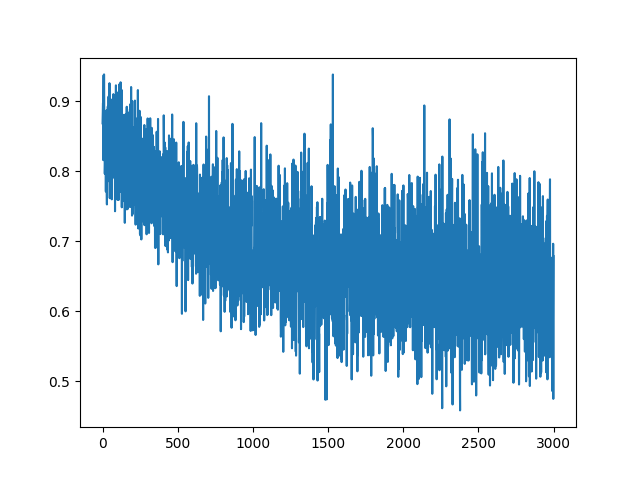
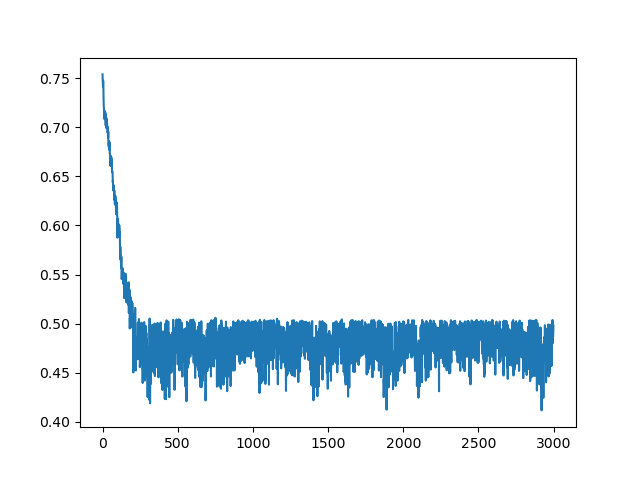
fixed GD to learn only recurrent. Found some hyperparameters that sort of work

diff --git a/multi-oja/multi_oja_powerseries.py b/multi-oja/multi_oja_powerseries.py
@@ -8,37 +8,6 @@ gpu = torch.device("cuda:0")
 import warnings
 warnings.filterwarnings('ignore', category=FutureWarning)
 
-eps = 1e-7
-# Neurons in input layer
-N_x = 16
-# Neurons in output layer - leq to input layer neurons
-N_y = 4
-M = torch.normal(torch.zeros((N_x, N_x)), torch.ones((N_x, N_x)))
-Q, _ = torch.linalg.qr(M)
-Q = Q.to(gpu)
-D = torch.diag(torch.exp(-torch.arange(N_x))).to(gpu)
-Sigma = Q @ D @ Q.t()
-r_dist = torch.distributions.multivariate_normal.MultivariateNormal(torch.zeros(N_x, device=gpu), Sigma)
-
-W_FF = torch.normal(torch.zeros(N_y, N_x), torch.ones(N_y, N_x))
-W_FF = W_FF.to(gpu)
-
-sigma_R = 0.05
-W_R = torch.normal(torch.zeros(N_y, N_y), torch.ones(N_y, N_y) * ((sigma_R ** 2) / N_y))
-W_R = W_R.to(gpu)
-
-n_train = 3000
-alpha_start = 1e-1
-alpha_end = 1e-4
-alpha_hebb_start = 1e-1
-alpha_hebb_end = 1e-3
-# Exponential decay lr starting at alpha_start and ending at alpha_end
-alphas = alpha_start*torch.exp(torch.arange(n_train) * (np.log(alpha_end / alpha_start) / (n_train-1)))
-#alphas = ((alpha_end - alpha_start) / n_train) * torch.arange(n_train) + alpha_start
-alphas_hebb = alpha_hebb_start*torch.exp(torch.arange(n_train) * (np.log(alpha_hebb_end / alpha_hebb_start) / (n_train-1)))
-
-degree = 2
-
 def load_features(start, end, fromwhere="gd"):
     pre = torch.load("r_pre_" + fromwhere + ".pt").detach().cpu()
     pre_start = pre[start, :]
@@ -115,7 +84,7 @@ def fit_powerseries(X, Y, alpha=1e-1):
 
     return reg
 
-def prepare_train_data(alphas, num_intervals=5, epoch_subset=None, fromwhere="gd"):    
+def prepare_train_data(alphas, alphas_hebb, num_intervals=5, epoch_subset=None, fromwhere="gd"):    
     loss_intervals = load_loss(num_intervals, epoch_subset, fromwhere=fromwhere)
     oja_train_samples = []
     oja_train_labels = []
@@ -135,6 +104,7 @@ def prepare_train_data(alphas, num_intervals=5, epoch_subset=None, fromwhere="gd
         oja_train_labels.append(labels_oja)
         
         features_ahebb = prepare_features(post, post, WR_0)
+        features_ahebb = alphas_hebb[start] * features_ahebb
         labels_ahebb = prepare_labels(WR_0, WR_f)
         ahebb_train_samples.append(features_ahebb)
         ahebb_train_labels.append(labels_ahebb)
@@ -170,7 +140,7 @@ def prepare_train_data(alphas, num_intervals=5, epoch_subset=None, fromwhere="gd
     return loss_intervals, oja_features_X_stats, oja_features_Y_stats, ahebb_features_X_stats, ahebb_features_Y_stats
 
 
-def accum_rule(reg_oja, reg_ahebb, oja_features_stats, ahebb_features_stats, learning_rate_scale=1.0, num_steps=100, alpha_mode="none", sample_new_cov=True):
+def accum_rule(reg_oja, reg_ahebb, oja_features_stats, ahebb_features_stats, learning_rate_scale=1.0, num_steps=100, alpha_mode="none", sample_new_cov=True, force_oja=True):
     if sample_new_cov:
         M = torch.normal(torch.zeros((N_x, N_x)), torch.ones((N_x, N_x)))
         Q, _ = torch.linalg.qr(M)
@@ -197,16 +167,16 @@ def accum_rule(reg_oja, reg_ahebb, oja_features_stats, ahebb_features_stats, lea
     W_R = torch.normal(torch.zeros(N_y, N_y), torch.ones(N_y, N_y) * ((sigma_R ** 2) / N_y)).to(gpu)
     Wr_gt = W_R.clone()
 
-    alphas_accum = alpha_start*torch.exp(torch.arange(num_steps) * (np.log(alpha_end / alpha_start) / (num_steps-1)))
-    alphas_accum_hebb = alpha_hebb_start*torch.exp(torch.arange(num_steps) * (np.log(alpha_hebb_end / alpha_hebb_start) / (num_steps-1)))
+    alphas_accum = alpha_start * torch.exp(torch.arange(num_steps) * (np.log(alpha_end / alpha_start) / (num_steps - 1)))
+    alphas_accum_hebb = alpha_hebb_start * torch.exp(torch.arange(num_steps) * (np.log(alpha_hebb_end / alpha_hebb_start) / (num_steps - 1)))
 
     losses = torch.empty((num_steps,))
     losses_gt = torch.empty((num_steps,))
     for i in range(num_steps):
         pre = r_dist_accum.sample().to(gpu)
         
-        W_tilde = torch.linalg.inv(torch.eye(N_y, device=gpu) - W_R) @ W_FF
-        W_tilde_gt = torch.linalg.inv(torch.eye(N_y, device=gpu) - Wr_gt) @ Wff_gt
+        W_tilde = torch.linalg.inv(torch.eye(N_y, device=gpu) -  W_R_scale * W_R) @ W_FF
+        W_tilde_gt = torch.linalg.inv(torch.eye(N_y, device=gpu) -  W_R_scale * Wr_gt) @ Wff_gt
 
         # Post computed with our powerseries' updates to respective weights
         post_hat = W_tilde @ pre
@@ -242,15 +212,18 @@ def accum_rule(reg_oja, reg_ahebb, oja_features_stats, ahebb_features_stats, lea
         overlaps_gt = torch.diag((W_tilde_gt[PCs2output_gt, :] @ pc_i.t()) * 1 / torch.linalg.vector_norm(W_tilde_gt[PCs2output_gt, :], dim=1))
         
         # Loss from using accumulation rule
-        loss = 1-torch.mean(torch.abs(overlaps))
+        loss = 1 - torch.mean(torch.abs(overlaps))
         # Loss from using actual Oja + anti-Hebbian rule
-        loss_gt = 1-torch.mean(torch.abs(overlaps_gt))
+        loss_gt = 1 - torch.mean(torch.abs(overlaps_gt))
 
         print(f"Iter {i}: {loss.item()}, overlaps: {overlaps}")
         losses[i] = loss.item()
         losses_gt[i] = loss_gt.item()
         
-        delta_W_FF = torch.from_numpy(reg_oja.predict(features_oja.detach().cpu().numpy())) * Y_oja_std + Y_oja_mu
+        if force_oja:
+            delta_W_FF = post_hat.unsqueeze(1) * (pre.unsqueeze(0) - post_hat.unsqueeze(1) * W_FF.detach())
+        else:
+            delta_W_FF = torch.from_numpy(reg_oja.predict(features_oja.detach().cpu().numpy())) * Y_oja_std + Y_oja_mu
         delta_W_FF = delta_W_FF.view(W_FF.shape).to(gpu)
         delta_W_R = torch.from_numpy(reg_ahebb.predict(features_ahebb.detach().cpu().numpy())) * Y_ahebb_std + Y_ahebb_mu
         delta_W_R = delta_W_R.view(W_R.shape).to(gpu)
@@ -264,8 +237,8 @@ def accum_rule(reg_oja, reg_ahebb, oja_features_stats, ahebb_features_stats, lea
         W_FF += learning_rate_scale * delta_W_FF
         Wff_gt += learning_rate_scale * delta_Wff_gt
         
-        W_R +=  1 / np.sqrt(N_y) * learning_rate_scale * delta_W_R
-        Wr_gt +=  1 / np.sqrt(N_y) * learning_rate_scale * delta_Wr_gt
+        W_R +=  learning_rate_scale * delta_W_R
+        Wr_gt +=  learning_rate_scale * delta_Wr_gt
 
 
     return losses, losses_gt
@@ -289,40 +262,71 @@ def compare_coefs(degree, numvars, coef):
     return fig
 
 
-loss_intervals, oja_features_X_stats, oja_features_Y_stats, ahebb_features_X_stats, ahebb_features_Y_stats = prepare_train_data(
-    alphas, num_intervals=n_train, epoch_subset=None, fromwhere="gd")
-oja_features, oja_X_mu, oja_X_std = oja_features_X_stats
-oja_labels, oja_Y_mu, oja_Y_std = oja_features_Y_stats
-ahebb_features, ahebb_X_mu, ahebb_X_std = ahebb_features_X_stats
-ahebb_labels, ahebb_Y_mu,ahebb_Y_std = ahebb_features_Y_stats
-#print(f"Loss intervals: {loss_intervals}")
-reg_oja = fit_powerseries(oja_features, oja_labels, alpha=1e-3) # 1e-1
-reg_ahebb = fit_powerseries(ahebb_features, ahebb_labels, alpha=1e-3) #5e-1
-plt.plot(ahebb_labels)
-plt.savefig("w_r.png")
-print(f"(Predicted) Oja Coefs: {reg_oja.coef_}")
-print(f"(Predicted) Anti-Hebbian Coefs: {reg_ahebb.coef_}")
-print(f"Oja R^2: {reg_oja.score(oja_features, oja_labels)}")
-print(f"Anti-Hebbian R^2: {reg_ahebb.score(ahebb_features, ahebb_labels)}")
-fig = compare_coefs(degree=degree, numvars=3, coef=reg_oja.coef_)
-fig.suptitle("Oja's Linear Predictor Coefficients")
-plt.savefig("oja_coefs.png")
-plt.close()
-fig = compare_coefs(degree=degree, numvars=3, coef=reg_ahebb.coef_)
-fig.suptitle("Anti-Hebbian Linear Predictor Coefficients")
-plt.savefig("anti_hebbian_coefs.png")
-plt.close()
+if __name__ == "__main__":
+    eps = 1e-7
+    # Neurons in input layer
+    N_x = 16
+    # Neurons in output layer - leq to input layer neurons
+    N_y = 4
+    M = torch.normal(torch.zeros((N_x, N_x)), torch.ones((N_x, N_x)))
+    Q, _ = torch.linalg.qr(M)
+    Q = Q.to(gpu)
+    D = torch.diag(torch.exp(-torch.arange(N_x))).to(gpu)
+    Sigma = Q @ D @ Q.t()
+    r_dist = torch.distributions.multivariate_normal.MultivariateNormal(torch.zeros(N_x, device=gpu), Sigma)
 
-exit(0)
+    W_FF = torch.normal(torch.zeros(N_y, N_x), torch.ones(N_y, N_x))
+    W_FF = W_FF.to(gpu)
 
-oja_features_stats = (oja_X_mu, oja_X_std, oja_Y_mu, oja_Y_std)
-ahebb_features_stats = (ahebb_X_mu, ahebb_X_std, ahebb_Y_mu, ahebb_Y_std)
-losses, losses_gt = accum_rule(reg_oja, reg_ahebb, oja_features_stats, ahebb_features_stats, 
-                                learning_rate_scale=1, num_steps=n_train * 1, alpha_mode="none", sample_new_cov=True)
-plt.plot(losses, color="tab:blue", label="Pred")
-plt.plot(losses_gt, color="tab:orange", label="GT")
-plt.ylim([0, 1])
-plt.title("Loss: Learning Rule Accumulation")
-plt.legend()
-plt.savefig("accum_rule.png")
-plt.show()
+    sigma_R = 0.01
+    W_R_scale = (sigma_R / np.sqrt(N_y))
+    W_R = torch.normal(torch.zeros(N_y, N_y), torch.ones(N_y, N_y))
+    W_R = W_R.to(gpu)
+
+    n_train = 10000
+    alpha_start = 1e-3
+    alpha_end = 1e-5
+    alpha_hebb_start = 1e-1
+    alpha_hebb_end = 1e-6
+    # Exponential decay lr starting at alpha_start and ending at alpha_end
+    alphas = alpha_start*torch.exp(torch.arange(n_train) * (np.log(alpha_end / alpha_start) / (n_train-1)))
+    #alphas = ((alpha_end - alpha_start) / n_train) * torch.arange(n_train) + alpha_start
+    alphas_hebb = alpha_hebb_start*torch.exp(torch.arange(n_train) * (np.log(alpha_hebb_end / alpha_hebb_start) / (n_train-1)))
+
+    degree = 2
+
+    loss_intervals, oja_features_X_stats, oja_features_Y_stats, ahebb_features_X_stats, ahebb_features_Y_stats = prepare_train_data(
+        alphas, alphas_hebb, num_intervals=n_train, epoch_subset=None, fromwhere="gd")
+    oja_features, oja_X_mu, oja_X_std = oja_features_X_stats
+    oja_labels, oja_Y_mu, oja_Y_std = oja_features_Y_stats
+    ahebb_features, ahebb_X_mu, ahebb_X_std = ahebb_features_X_stats
+    ahebb_labels, ahebb_Y_mu,ahebb_Y_std = ahebb_features_Y_stats
+    #print(f"Loss intervals: {loss_intervals}")
+    reg_oja = fit_powerseries(oja_features, oja_labels, alpha=1e-1) # 1e-1
+    reg_ahebb = fit_powerseries(ahebb_features, ahebb_labels, alpha=1e-3) #5e-1
+
+    print(f"(Predicted) Oja Coefs: {reg_oja.coef_}")
+    print(f"(Predicted) Anti-Hebbian Coefs: {reg_ahebb.coef_}")
+    print(f"Oja R^2: {reg_oja.score(oja_features, oja_labels)}")
+    print(f"Anti-Hebbian R^2: {reg_ahebb.score(ahebb_features, ahebb_labels)}")
+    fig = compare_coefs(degree=degree, numvars=3, coef=reg_oja.coef_)
+    fig.suptitle("Oja's Linear Predictor Coefficients")
+    plt.savefig("oja_coefs.png")
+    fig = compare_coefs(degree=degree, numvars=3, coef=reg_ahebb.coef_)
+    fig.suptitle("Anti-Hebbian Linear Predictor Coefficients")
+    plt.savefig("anti_hebbian_coefs.png")
+    plt.show()
+    plt.close("all")
+
+    oja_features_stats = (oja_X_mu, oja_X_std, oja_Y_mu, oja_Y_std)
+    ahebb_features_stats = (ahebb_X_mu, ahebb_X_std, ahebb_Y_mu, ahebb_Y_std)
+    losses, losses_gt = accum_rule(reg_oja, reg_ahebb, oja_features_stats, ahebb_features_stats, 
+                                    learning_rate_scale=1, num_steps=n_train * 1, alpha_mode="same", sample_new_cov=True, force_oja=False)
+    plt.close("all")
+    plt.plot(losses, color="tab:blue", label="Pred")
+    plt.plot(losses_gt, color="tab:orange", label="GT")
+    plt.ylim([0, 1])
+    plt.title("Loss: Learning Rule Accumulation")
+    plt.legend()
+    plt.savefig("accum_rule.png")
+    plt.show()

diff --git a/multi-oja/multi_oja_gd.py b/multi-oja/multi_oja_gd.py
@@ -11,10 +11,10 @@ N_y = 4
 M = torch.normal(torch.zeros((N_x, N_x)), torch.ones((N_x, N_x)))
 Q, _ = torch.linalg.qr(M)
 Q = Q.to(gpu)
-#D = torch.diag(torch.exp(-torch.arange(N_x))).to(gpu)
+D = torch.diag(torch.exp(-torch.arange(N_x))).to(gpu)
 # Trying linearly decreasing eigenvalues to make it easier to learn multiple PCs
 # By increasing these eigenvalues we also increase variance of input
-D = torch.diag(torch.linspace(1, 0.1, N_x) / torch.sum(torch.linspace(1, 0.1, N_x))).to(gpu)
+# D = torch.diag(torch.linspace(1, 0.1, N_x) / torch.sum(torch.linspace(1, 0.1, N_x))).to(gpu)
 Sigma = Q @ D @ Q.t()
 r_dist = torch.distributions.multivariate_normal.MultivariateNormal(torch.zeros(N_x, device=gpu), Sigma)
 
@@ -22,36 +22,40 @@ W_FF = torch.normal(torch.zeros(N_y, N_x), torch.ones(N_y, N_x))
 W_FF = W_FF.to(gpu)
 #W_FF.requires_grad_(True)
 sigma_R = 0.01
-W_R = torch.normal(torch.zeros(N_y, N_y), torch.ones(N_y, N_y) * ((sigma_R ** 2) / N_y))
+W_R_scale = (sigma_R / np.sqrt(N_y))
+W_R = torch.normal(torch.zeros(N_y, N_y), torch.ones(N_y, N_y))
 W_R = W_R.to(gpu)
 W_R.requires_grad_(True)
 
-lr = 1e-1
-n_train = 3000
-alpha_start = 1e-2
-alpha_end = 1e-3
+lr = 5e-2
+lambda_r = 1e-8
+n_train = 10000
+alpha_start = 1e-3
+alpha_end = 1e-5
 # Exponential decay lr starting at alpha_start and ending at alpha_end
 alphas = alpha_start*torch.exp(torch.arange(n_train) * (np.log(alpha_end / alpha_start) / (n_train-1)))
 #alphas = ((alpha_end - alpha_start) / n_train) * torch.arange(n_train) + alpha_start
 #optim_FF = torch.optim.Adam([W_FF], lr=lr)
-#optim_R = torch.optim.Adam([W_R], lr=lr)
+optim_R = torch.optim.Adam([W_R], lr=lr)
 # No momentum so just vanilla gradient descent
 #optim_FF = torch.optim.SGD([W_FF], lr=lr, momentum=0.)
-optim_R = torch.optim.SGD([W_R], lr=lr, momentum=0.)
+# optim_R = torch.optim.SGD([W_R], lr=lr, momentum=0.)
 
 losses = torch.empty((n_train,))
 W_ff = torch.empty(n_train, N_y, N_x)
 W_r = torch.empty(n_train, N_y, N_y)
 pre = torch.empty((n_train, N_x))
-post = torch.empty((n_train, N_y))
+post = torch.empty((n_train, N_y))  
 
 # Jointly train W_FF and W_R
 for i in range(n_train):
+    optim_R.zero_grad()
+
     X = r_dist.sample()
     # Convergent dynamics matrix for output layer
-    W_tilde = torch.linalg.inv((torch.eye(N_y, device=gpu) - W_R)) @ W_FF
+    W_tilde = torch.linalg.inv((torch.eye(N_y, device=gpu) - W_R_scale * W_R)) @ W_FF#.detach()
     # output neurons predicted with W_FF
-    Y_hat = W_tilde @ X
+    Y_hat = W_tilde.detach() @ X
     
     B = 512
     c = torch.cov(r_dist.sample((B,)).t())
@@ -60,9 +64,8 @@ for i in range(n_train):
     # TODO does it matter whether we flip? NO
     #pc_i = torch.flip(eigvecs[:, -N_y:].t(), dims=(0,))
     pc_i = eigvecs[:, -N_y:].t().flip(dims=(0,))
-    
-    # output neurons predicted with the first N_Y PCs (the last output neuron has first PC)
-    Y = pc_i @ X
+
+    # W_FF = delta_W_FF
     
     # norm_pci = pc_i / torch.linalg.vector_norm(pc_i, dim=1).unsqueeze(1)
     # norm_W = W_FF / torch.linalg.vector_norm(W_FF, dim=1).unsqueeze(1)
@@ -76,34 +79,36 @@ for i in range(n_train):
     # loss = torch.mean((Y-Y_hat) ** 2) + lambda_ff*l1reg_ff + lambda_r*l1reg_r
     # for each PC, find the best-aligned post neuron
     #PCs2output = torch.zeros((pc_i.shape[0]), dtype=torch.int, requires_grad=False)
-    PCs2output = torch.arange(pc_i.shape[0])
+    # PCs2output = torch.arange(pc_i.shape[0])
     # for ii in range(pc_i.shape[0]):
     #     with torch.no_grad():
     #         PCs2output[ii] = torch.argmax(W_tilde @ pc_i[ii, :] * 1 / (torch.linalg.vector_norm(W_tilde, dim=1)))
     # With this best-aligned neuron, how much it overlaps with its respective PC
     # If we have multiple neurons encoding the same PC, then there would be a PC which is not represented well by any neuron
     # And this would be reflected in the loss
-    overlaps = torch.diag((W_tilde[PCs2output, :] @ pc_i.t()) * 1 / torch.linalg.vector_norm(W_tilde[PCs2output, :], dim=1))
+    overlaps = torch.diag((W_tilde @ pc_i.t()) * 1 / torch.linalg.vector_norm(W_tilde, dim=1))
     
-    lambda_r = 10
-    l2reg_r = torch.sum(W_R ** 2) / (N_x*N_x)
+    l2reg_r = torch.sum(W_R ** 2) / (N_y*N_y)
     loss = 1 - torch.mean(torch.abs(overlaps)) + lambda_r*l2reg_r
     
-    print(f"Iter {i}: {loss.item()}, overlaps: {overlaps}, best-aligned: {PCs2output}")
+    print(f"Iter {i}: {loss.item()}, overlaps: {overlaps}")
     losses[i] = loss.item()
-    W_ff[i] = W_FF
-    W_r[i] = W_R
-    pre[i] = X
-    post[i] = Y_hat
+    W_ff[i] = W_FF.data
+    W_r[i] = W_R.data
+    pre[i] = X.data
+    post[i] = Y_hat.data
 
     #optim_FF.zero_grad()
-    optim_R.zero_grad()
-    
+
+    # update feed-forward
+    delta_W_FF = alphas[i] * Y_hat.unsqueeze(1) * (X.unsqueeze(0) - Y_hat.unsqueeze(1) * W_FF.detach())
+    W_FF = W_FF.detach() + delta_W_FF
+
     loss.backward()
 
-    with torch.no_grad():
-        delta_W_FF = alphas[i] * Y_hat.unsqueeze(1) * (X.unsqueeze(0) - Y_hat.unsqueeze(1) * W_FF)
-        W_FF += delta_W_FF
+    # with torch.no_grad():
+    #     delta_W_FF = alphas[i] * Y_hat.unsqueeze(1) * (X.unsqueeze(0) - Y_hat.unsqueeze(1) * W_FF)
+    #     W_FF += delta_W_FF
 
     #optim_FF.step()
     optim_R.step()

diff --git a/multi-oja/multi_oja_gt.py b/multi-oja/multi_oja_gt.py
@@ -17,13 +17,14 @@ r_dist = torch.distributions.multivariate_normal.MultivariateNormal(torch.zeros(
 
 W_FF = torch.normal(torch.zeros(N_y, N_x), torch.ones(N_y, N_x))
 W_FF = W_FF.to(gpu)
-sigma_R = 0.05
-W_R = torch.normal(torch.zeros(N_y, N_y), torch.ones(N_y, N_y) * ((sigma_R ** 2) / N_y))
+sigma_R = 0.01
+W_R_scale = sigma_R / np.sqrt(N_y)
+W_R = torch.normal(torch.zeros(N_y, N_y), torch.ones(N_y, N_y))
 W_R = W_R.to(gpu)
 
 n_train = 4000
-alpha_start = 1e-2
-alpha_end = 1e-2
+alpha_start = 1e-3
+alpha_end = 1e-3
 alpha_hebb_start = 1e-3
 alpha_hebb_end = 1e-3
 
@@ -52,7 +53,7 @@ for i in range(n_train):
 
     X = r_dist.sample()
     # Convergent dynamics matrix for output layer
-    W_tilde = (torch.linalg.inv((torch.eye(N_y, device=gpu) - W_R)) @ W_FF)
+    W_tilde = (torch.linalg.inv((torch.eye(N_y, device=gpu) - W_R_scale * W_R)) @ W_FF)
     # output neurons predicted with W_FF
     Y_hat = W_tilde @ X
     Y = pc_i @ X
@@ -80,7 +81,7 @@ for i in range(n_train):
     W_FF += delta_W_FF
     # delta_W_R = -alphas_hebb * torch.diag(Y_hat * Y_hat)  # this seems wrong to me, it does not let neurons interact
     delta_W_R = -alphas_hebb[i] * (Y_hat[:, None] @ Y_hat[None, :])
-    W_R += 1 / np.sqrt(N_y) * delta_W_R
+    W_R += delta_W_R
 
 
 plt.plot(losses)
